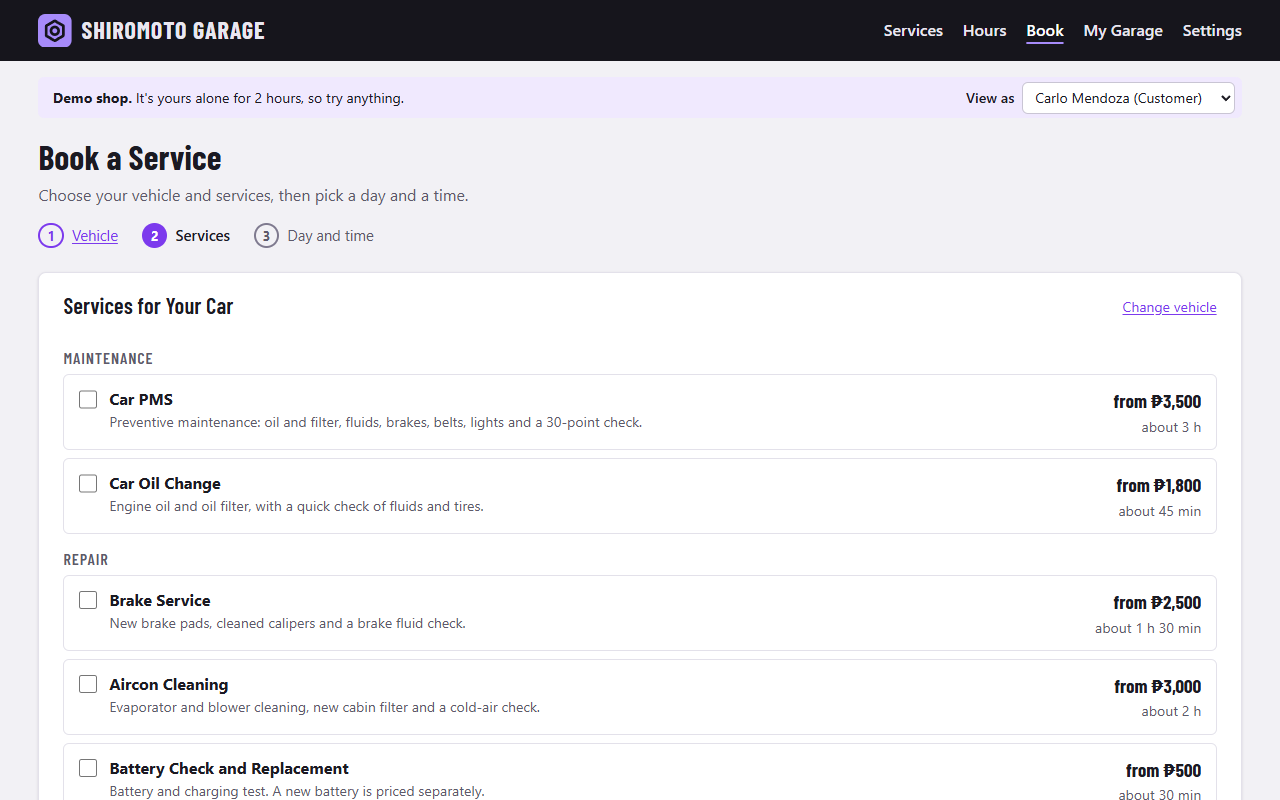
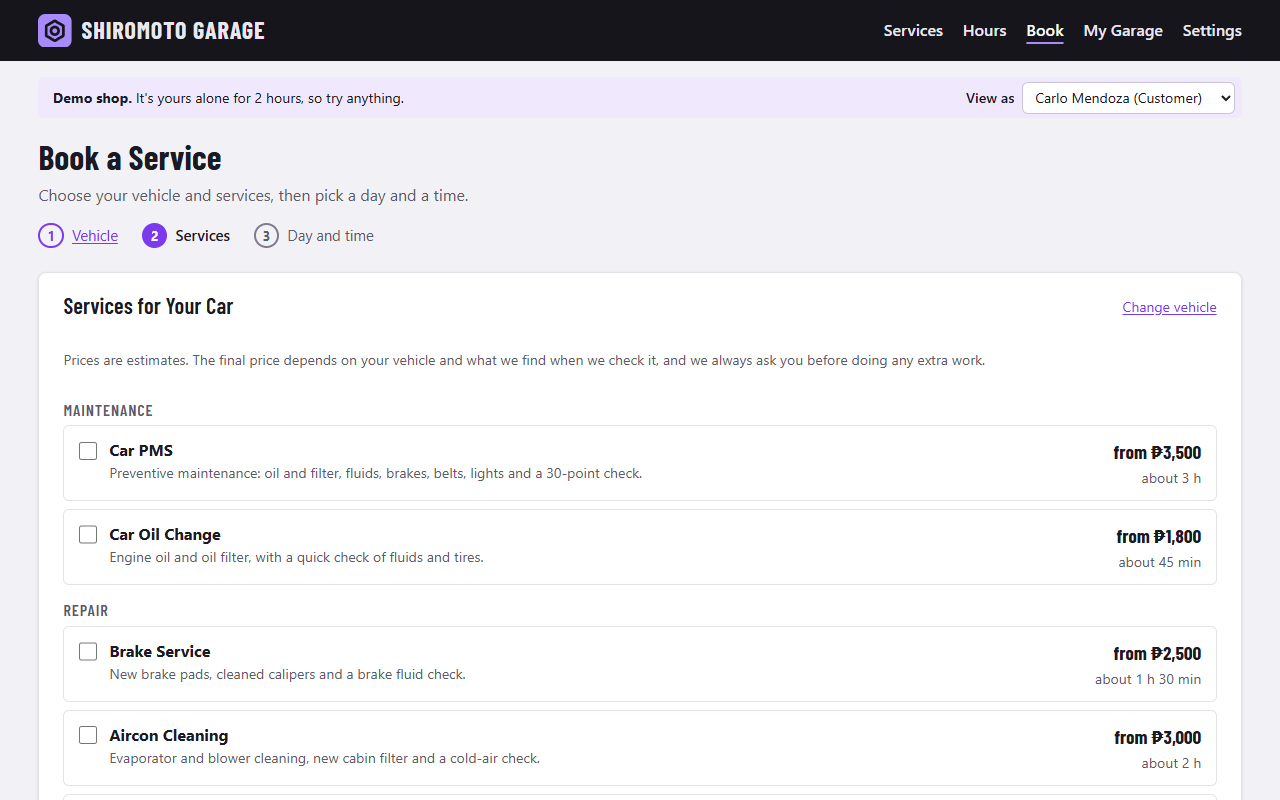
Clearer booking words, and prices shown as estimates
- The services step's button says "Next: pick a day and time" instead of
  "Show free times", so it names the step it goes to.
- Each day in the day strip says "20 slots open" instead of "20 times".
  A day with none says why in one or two words: Closed, Fully booked, or
  No slots. On a phone it is just "20 slots", so the narrow day box stays
  on one line.
- Each time button says "Ready around 11:15 AM" instead of "ready about".
- Prices are called estimates: a note on the services step and the home
  page (the final price depends on the vehicle and what the check finds,
  and the customer is asked before any extra work), "Estimated price" on
  the summary and the booking page, and "estimate from" on the details
  step. The home page's per-service link says "Book".
- Capitalization: headings stay in Title Case with small words lowercase
  ("Book a Service"); labels are sentence case. Stat tile labels that were
  Title Case in the HTML ("Bay Use", "Coming Up") are now sentence case.
  They still look the same, because CSS shows them in capitals.
- Tests for the new wording, README note, and the changed pictures retaken.

229 tests on SQLite.

Changed region(s): [[0.0312, 0.4375, 0.7812, 1.0], [0.8438, 0.4688, 0.9375, 1.0], [0.2812, 0.75, 0.3438, 0.7812]]

diff --git a/shiromoto/templates/book.html b/shiromoto/templates/book.html
@@ -34,6 +34,7 @@
         <h2>Services for Your {{ 'Car' if vehicle == 'car' else 'Motorcycle' }}</h2>
         <a class="small" href="{{ url_for('book.index') }}">Change vehicle</a>
       </div>
+      <p class="muted small">Prices are estimates. The final price depends on your vehicle and what we find when we check it, and we always ask you before doing any extra work.</p>
       {% for category, services in menu.items() %}
         <fieldset class="plain-fieldset service-group">
           <legend><h4>{{ category }}</h4></legend>
@@ -48,7 +49,7 @@
       {% else %}
         <p class="muted">No services for this vehicle right now.</p>
       {% endfor %}
-      <div class="form-actions"><button class="button" type="submit">Show free times</button></div>
+      <div class="form-actions"><button class="button" type="submit">Next: pick a day and time</button></div>
     </form>
 
   {% else %}
@@ -60,7 +61,7 @@
       {% if need %}
         <dl class="facts">
           <div><dt>Work time</dt><dd>about {{ need.work_minutes|duration }}</dd></div>
-          <div><dt>Price</dt><dd>from {{ price_from|peso }}</dd></div>
+          <div><dt>Estimated price</dt><dd>from {{ price_from|peso }}</dd></div>
           {% if staff_view %}<div><dt>Needs</dt><dd>{{ need.bay_type_name }}{% if need.skill_names %} · {{ need.skill_names|join(', ') }}{% endif %}{% if need.buffer_minutes %} · {{ need.buffer_minutes }} min clean-up{% endif %}</dd></div>{% endif %}
         </dl>
       {% endif %}
@@ -82,7 +83,7 @@
               <a class="day-pill{{ ' is-picked' if choice.day == picked.day else '' }}{{ ' is-full' if not choice.count else '' }}" href="{{ day_url(choice.day) }}"{% if choice.day == picked.day %} aria-current="date"{% endif %}>
                 <span class="day-name">{{ choice.day.strftime('%a') }}</span>
                 <span class="day-number">{{ choice.day.day }} {{ choice.day.strftime('%b') }}</span>
-                <span class="day-count">{% if choice.count %}{{ choice.count }} time{{ 's' if choice.count != 1 }}{% elif 'Closed' in (choice.reason or '') %}Closed{% else %}None{% endif %}</span>
+                <span class="day-count">{% if choice.count %}{{ choice.count }} slot{{ 's' if choice.count != 1 }}<span class="day-count-more"> open</span>{% elif 'Closed' in (choice.reason or '') or choice.reason == 'Day off' %}Closed{% elif choice.reason == 'Fully booked.' %}Fully booked{% else %}No slots{% endif %}</span>
               </a>
             </li>
           {% endfor %}
@@ -132,7 +133,7 @@
             {% else %}
               <ul class="time-grid">
                 {% for slot in part_slots %}
-                  <li><button class="time-chip" form="time-form" type="submit" name="start" value="{{ slot.start }}"><strong>{{ slot.start|slot_time }}</strong><span class="muted small">ready about {{ slot.ready|slot_time }}</span></button></li>
+                  <li><button class="time-chip" form="time-form" type="submit" name="start" value="{{ slot.start }}"><strong>{{ slot.start|slot_time }}</strong><span class="muted small">Ready around {{ slot.ready|slot_time }}</span></button></li>
                 {% endfor %}
               </ul>
             {% endif %}

diff --git a/shiromoto/templates/desk/insights.html b/shiromoto/templates/desk/insights.html
@@ -39,9 +39,9 @@
 
   <div class="stat-row stat-row-6">
     <div class="stat card"><p class="stat-label">Bookings</p><p class="stat-value">{{ data.tiles.bookings }}</p><p class="muted small">not cancelled</p></div>
-    <div class="stat card"><p class="stat-label">Expected Money</p><p class="stat-value">{{ data.tiles.money }}</p><p class="muted small">from visits that came</p></div>
-    <div class="stat card"><p class="stat-label">Work Done</p><p class="stat-value">{{ data.tiles.work }}</p><p class="muted small">booked working time</p></div>
-    <div class="stat card"><p class="stat-label">Bay Use</p><p class="stat-value">{{ data.tiles.bay_use }}</p><p class="muted small">of open hours, on average</p></div>
+    <div class="stat card"><p class="stat-label">Expected money</p><p class="stat-value">{{ data.tiles.money }}</p><p class="muted small">from visits that came</p></div>
+    <div class="stat card"><p class="stat-label">Work done</p><p class="stat-value">{{ data.tiles.work }}</p><p class="muted small">booked working time</p></div>
+    <div class="stat card"><p class="stat-label">Bay use</p><p class="stat-value">{{ data.tiles.bay_use }}</p><p class="muted small">of open hours, on average</p></div>
     <div class="stat card"><p class="stat-label">No-shows</p><p class="stat-value">{{ data.tiles.no_show_rate }}</p><p class="muted small">{{ data.counts.no_shows }} of {{ data.counts.happened }} visits that were due</p></div>
     <div class="stat card"><p class="stat-label">Cancelled</p><p class="stat-value">{{ data.tiles.cancel_rate }}</p><p class="muted small">{{ data.counts.cancelled }} of {{ data.counts.all }} bookings</p></div>
   </div>

diff --git a/shiromoto/templates/home.html b/shiromoto/templates/home.html
@@ -31,7 +31,7 @@
   <section id="services" class="section">
     <div class="section-head">
       <h2>Services and Prices</h2>
-      <p class="muted">Prices start from the amount shown. We always tell you the full price before any extra work.</p>
+      <p class="muted">Prices are estimates that start from the amount shown. The final price depends on your vehicle and what we find, and we always ask you before any extra work.</p>
     </div>
     <div class="menu-columns">
       {% for kind, title in (('car', 'Cars'), ('moto', 'Motorcycles')) %}
@@ -50,7 +50,7 @@
                     <div class="price-figure">
                       <span class="price">from {{ service.price_from|peso }}</span>
                       <span class="muted small">about {{ service.work_minutes|duration }}</span>
-                      <a class="small" href="{{ url_for('book.index', vehicle=kind, service=service.id) }}">Free times<span class="visually-hidden"> for {{ service.name }}</span></a>
+                      <a class="small" href="{{ url_for('book.index', vehicle=kind, service=service.id) }}">Book<span class="visually-hidden"> {{ service.name }}</span></a>
                     </div>
                   </li>
                 {% endfor %}

diff --git a/shiromoto/templates/book_details.html b/shiromoto/templates/book_details.html
@@ -12,7 +12,7 @@
       <div>
         <p class="kicker">Your time</p>
         <p class="held-when">{{ day|long_day }}, {{ start|clock }}</p>
-        <p class="muted small">{{ held.services|map(attribute='name')|join(' + ') }} · ready about {{ ready|clock }}{% if staff_view %} · {{ held.mechanic.name }} · {{ held.bay.name }}{% endif %}</p>
+        <p class="muted small">{{ held.services|map(attribute='name')|join(' + ') }} · ready around {{ ready|clock }} · estimate from {{ held.services|sum(attribute='price_from')|peso }}{% if staff_view %} · {{ held.mechanic.name }} · {{ held.bay.name }}{% endif %}</p>
       </div>
       <p class="hold-timer" data-countdown="{{ expires_in }}" role="timer" aria-live="off">
         Kept for you for <strong data-countdown-text>{{ (expires_in // 60) }}:{{ '%02d' % (expires_in % 60) }}</strong>

diff --git a/shiromoto/templates/desk/today.html b/shiromoto/templates/desk/today.html
@@ -22,12 +22,12 @@
       {% endif %}
     </div>
     <div class="stat card">
-      <p class="stat-label">{{ 'Your Jobs' if g.user.role == 'mechanic' else 'Bookings' }}</p>
+      <p class="stat-label">{{ 'Your jobs' if g.user.role == 'mechanic' else 'Bookings' }}</p>
       <p class="stat-value">{{ queue|length }}</p>
       <p class="muted small">{{ counts.checked_in }} checked in · {{ counts.booked }} to come{% if counts.no_show %} · {{ counts.no_show }} no-show{% endif %}</p>
     </div>
     <div class="stat card">
-      <p class="stat-label">Mechanics In</p>
+      <p class="stat-label">Mechanics in</p>
       <p class="stat-value">{{ working }} <span class="stat-of">of {{ plan.mechanics|length }}</span></p>
       <p class="muted small">{{ plan.mechanics|length - working }} off today</p>
     </div>

diff --git a/shiromoto/templates/booking.html b/shiromoto/templates/booking.html
@@ -29,7 +29,7 @@
       </div>
       <dl class="detail-list">
         <div><dt>Services</dt><dd>{{ appointment.lines|map(attribute='name')|join(' + ') }}</dd></div>
-        <div><dt>Price</dt><dd>from {{ appointment.price_from|peso }} <span class="muted small">(we tell you the full price before any extra work)</span></dd></div>
+        <div><dt>Estimated price</dt><dd>from {{ appointment.price_from|peso }} <span class="muted small">(the final price depends on what we find, and we ask you before any extra work)</span></dd></div>
         <div><dt>Vehicle</dt><dd>{{ VEHICLE_LABELS[appointment.vehicle.kind] }} · {{ appointment.vehicle.label }}</dd></div>
         {% if staff_view %}
           <div><dt>Mechanic and bay</dt><dd>{{ appointment.mechanic.name }} · {{ appointment.bay.name }}</dd></div>

diff --git a/shiromoto/static/style.css b/shiromoto/static/style.css
@@ -567,6 +567,7 @@ html:not(.js) .welcome-layout .flashes { position: absolute; top: 1rem; right: 1
 .day-number { font-family: var(--headline); font-size: 1.25rem; font-weight: 700; }
 .day-count { font-size: .8rem; color: var(--ok-ink); font-weight: 600; }
 .day-pill.is-full .day-count { color: var(--ink-soft); font-weight: 400; }
+@media (max-width: 47.99rem) { .day-count-more { display: none; } }  /* "28 slots", not "28 slots open", in a phone's narrow day */
 .day-pill.is-full .day-number { color: var(--ink-soft); }
 .day-pill.is-picked { background: var(--accent); border-color: var(--accent); color: var(--on-accent); }
 .day-pill.is-picked .day-name, .day-pill.is-picked .day-count, .day-pill.is-picked .day-number { color: var(--on-accent); }

diff --git a/shiromoto/templates/jobs/part.html b/shiromoto/templates/jobs/part.html
@@ -8,7 +8,7 @@
     <p class="page-sub">{{ item.sku or 'No code' }} · price {{ item.price|peso }} · cost {{ item.cost|peso }}</p>
   </div>
   <div class="stat-row">
-    <div class="stat card"><p class="stat-label">In Stock</p><p class="stat-value">{{ item.stock }}</p><p class="muted small">Order at {{ item.low_level }}</p></div>
+    <div class="stat card"><p class="stat-label">In stock</p><p class="stat-value">{{ item.stock }}</p><p class="muted small">Order at {{ item.low_level }}</p></div>
   </div>
   <div class="split">
     <section class="card table-card">

diff --git a/shiromoto/templates/desk/customer.html b/shiromoto/templates/desk/customer.html
@@ -11,7 +11,7 @@
   </div>
   <div class="stat-row">
     <div class="stat card"><p class="stat-label">Visits</p><p class="stat-value">{{ visits }}</p></div>
-    <div class="stat card"><p class="stat-label">Coming Up</p><p class="stat-value">{{ upcoming|length }}</p></div>
+    <div class="stat card"><p class="stat-label">Coming up</p><p class="stat-value">{{ upcoming|length }}</p></div>
     <div class="stat card"><p class="stat-label">No-shows</p><p class="stat-value">{{ no_shows }}</p></div>
   </div>
   <div class="split">

diff --git a/tests/test_book.py b/tests/test_book.py
@@ -38,10 +38,19 @@ def test_times_show_once_there_is_a_mechanic(app, client, shop_id):
     for n in range(14):
         day = tomorrow + timedelta(days=n)
         page = client.get(f"/book?vehicle=car&service={oil}&day={day}").get_data(as_text=True)
-        if "ready about" in page:
+        if "Ready around" in page:
             break
-    assert "ready about" in page and "8:00 AM" in page
+    assert "Ready around" in page and "8:00 AM" in page
     assert "Jun" not in page  # customers don't see who or which bay
+    # Each day says how many start times are open, in words a customer reads easily.
+    assert ' slots<span class="day-count-more"> open</span>' in page and " times<" not in page
+    assert "Estimated price" in page
+
+
+def test_prices_are_called_estimates(app, client, shop_id):
+    services = client.get("/book?vehicle=car").get_data(as_text=True)
+    assert "Prices are estimates." in services and "ask you before doing any extra work" in services
+    assert "Prices are estimates that start from the amount shown." in client.get("/").get_data(as_text=True)
 
 
 def test_staff_see_who_and_which_bay(app, shop_id, owner_id):
@@ -70,7 +79,7 @@ def test_odd_addresses_dont_break_it(app, client, shop_id):
     assert client.get("/book?vehicle=truck").status_code == 200  # back to step one
     # A motorcycle service on a car is dropped, which leaves nothing chosen: step two.
     page = client.get(f"/book?vehicle=car&service={cvt}&service=abc&service=99999").get_data(as_text=True)
-    assert "Show free times" in page
+    assert "Next: pick a day and time" in page
     oil = service_id(app, shop_id, "Car Oil Change")
     for bad in ("day=not-a-day", "day=1999-01-01", "from=2999-01-01"):
         assert client.get(f"/book?vehicle=car&service={oil}&{bad}").status_code == 200

diff --git a/docs/take_screenshots.py b/docs/take_screenshots.py
@@ -29,7 +29,7 @@ PHONE = {"width": 390, "height": 844}
 
 # (file name, address, theme, screen size, who: a demo person's name for View As, or None for the owner).
 # {mechanic} is Jun dela Cruz's staff page. "pick:car:Car PMS" ticks services on the Book page
-# and presses "Show free times"; "hold:..." does the same, then presses the first time. "garage:first" opens
+# and presses "Next: pick a day and time"; "hold:..." does the same, then presses the first time. "garage:first" opens
 # the first booking in My Garage.
 PAGES = [
     ("home.png", "/", "light", DESKTOP, None),
@@ -117,7 +117,7 @@ def main(only=None):
                 page.goto(f"{BASE}/book?vehicle={vehicle}")
                 for service in names.split("|"):
                     page.get_by_role("checkbox", name=service, exact=False).first.check()
-                page.get_by_role("button", name="Show free times").click()
+                page.get_by_role("button", name="Next: pick a day and time").click()
                 page.wait_for_url("**/book?**service=**")
                 if action == "hold":
                     page.locator(".time-chip").first.click()
@@ -126,7 +126,7 @@ def main(only=None):
                 _, vehicle, wanted = address.split(":")
                 page.goto(f"{BASE}/book?vehicle={vehicle}")
                 page.get_by_role("checkbox", name=wanted, exact=False).first.check()
-                page.get_by_role("button", name="Show free times").click()
+                page.get_by_role("button", name="Next: pick a day and time").click()
                 page.wait_for_url("**/book?**service=**")
                 page.get_by_role("link", name="Join the waitlist").first.click()
                 page.wait_for_url("**/book/waitlist**")

diff --git a/tests/test_demo.py b/tests/test_demo.py
@@ -211,7 +211,7 @@ def test_the_demo_shows_free_times_with_mechanics_and_bays(app, demo):
     customer = person(app, visitor(demo).shop_id, "customer")
     view_as(demo, customer)
     page = demo.get(f"/book?vehicle=car&service={pms.id}").get_data(as_text=True)
-    assert "ready about" in page and "Free bays" not in page
+    assert "Ready around" in page and "Free bays" not in page
 
 
 def test_the_demo_customer_has_an_estimate_to_approve(app, demo):
